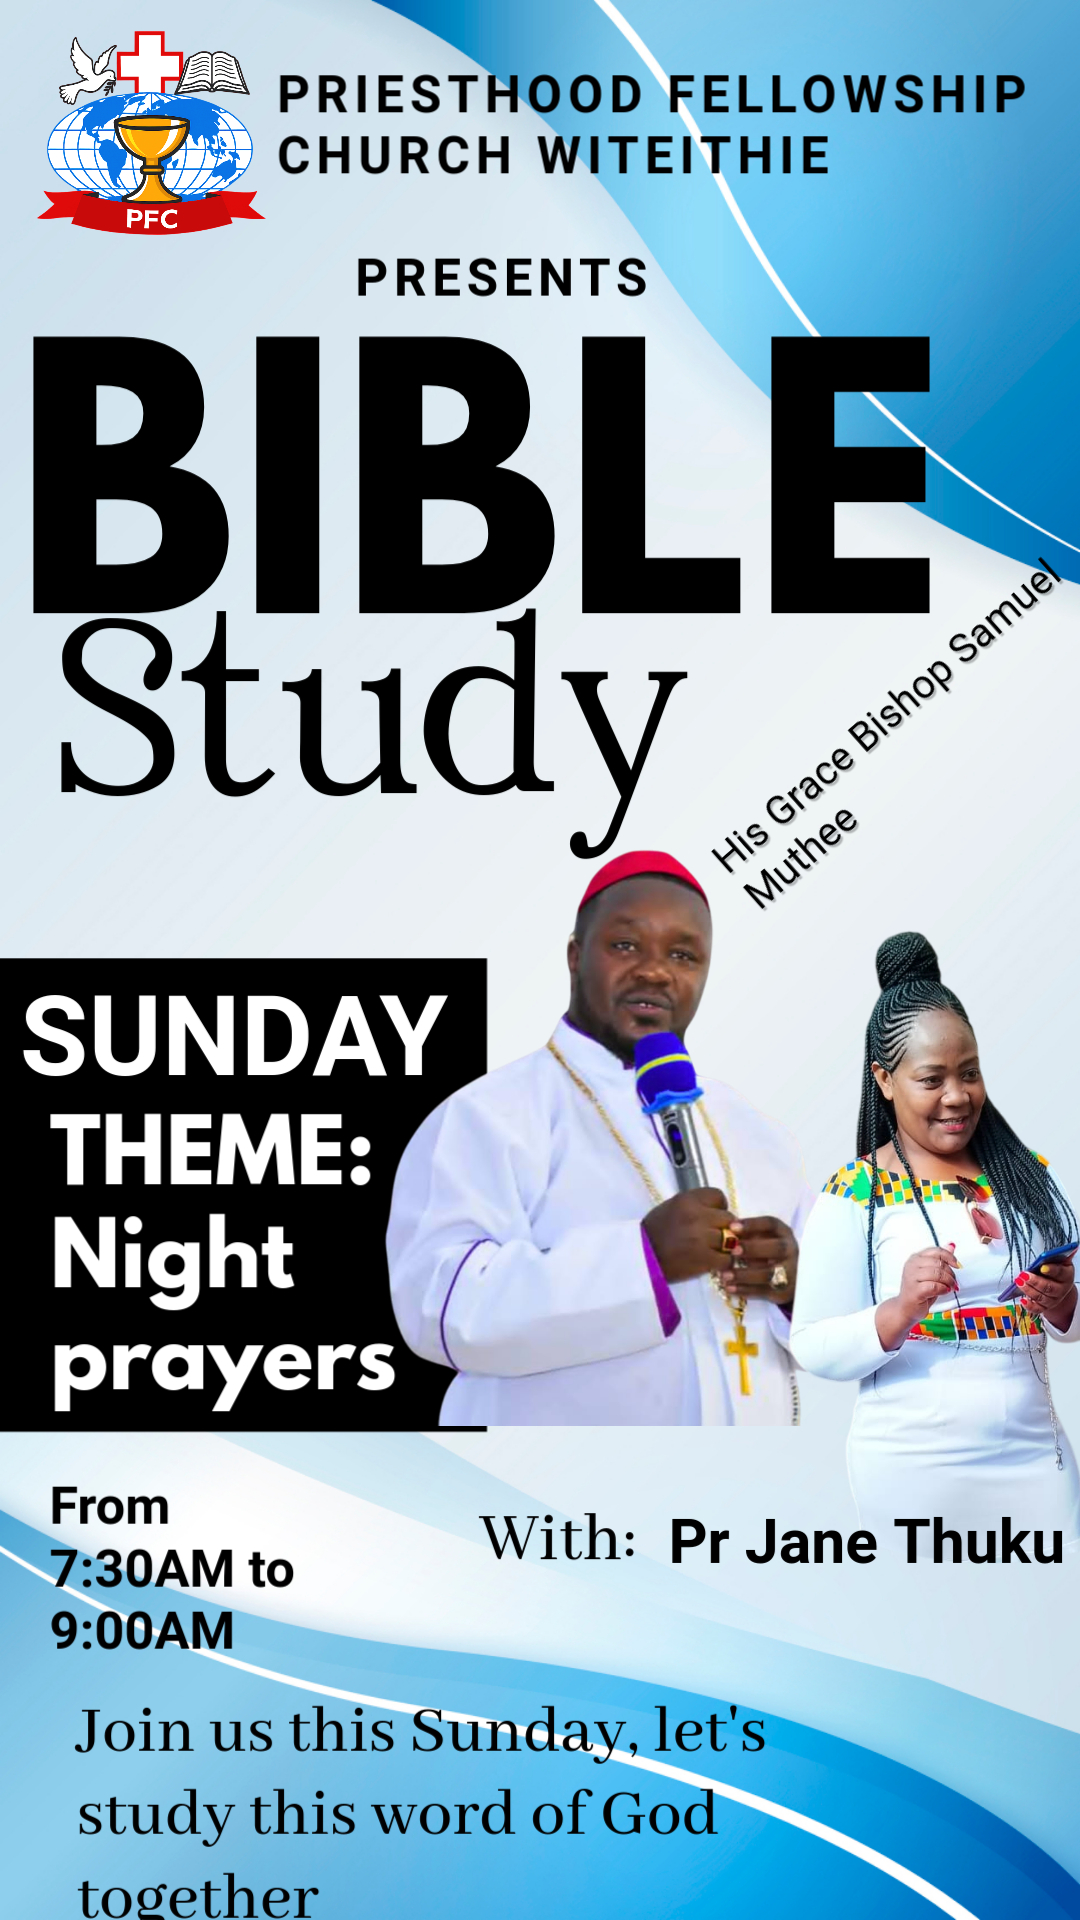
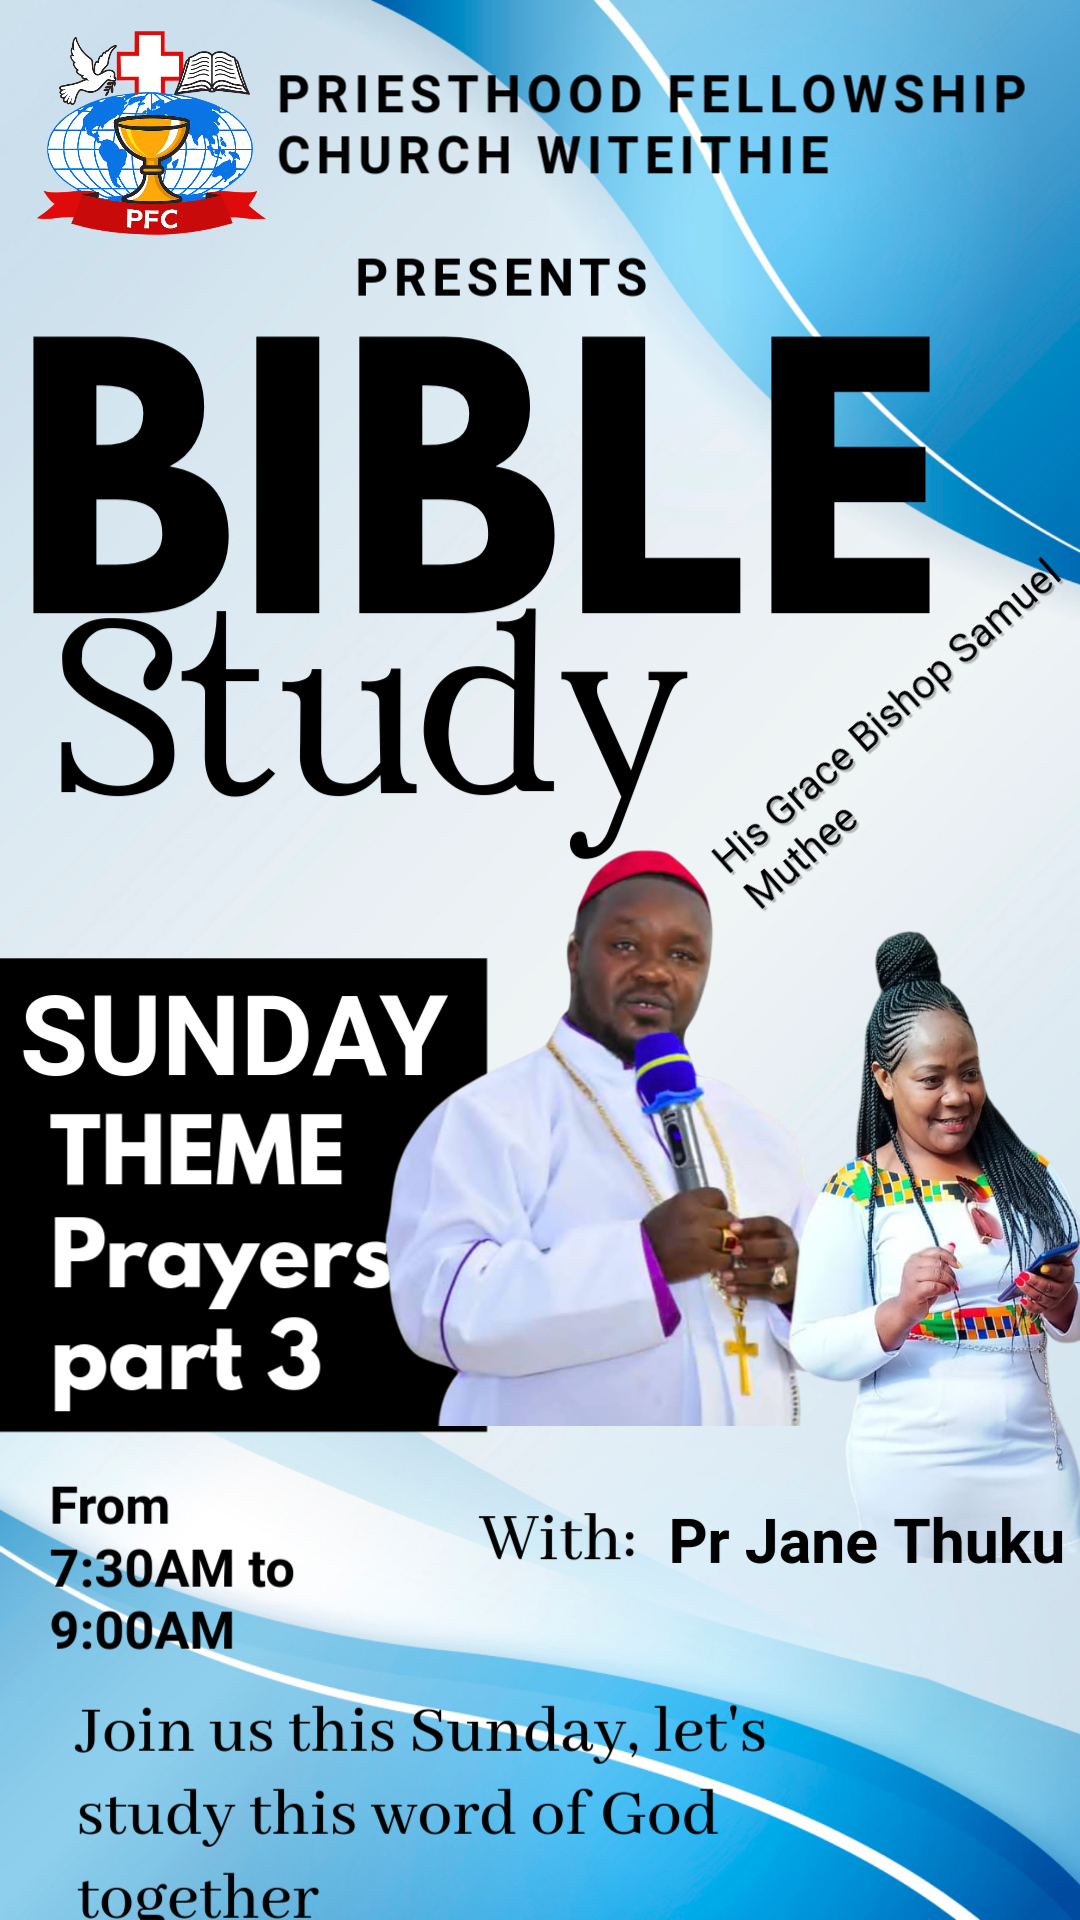
added sunday posters

Changed region(s): [[0.0611, 0.5938, 0.3667, 0.75]]

diff --git a/client/assets/assets.js b/client/assets/assets.js
@@ -1,13 +1,13 @@
 import logo from './Pristhood-logo (2)-Photoroom.png';
 import header_bg_image from './Header_bg.png';
 import worship from './WENO.jpg';
-import sunday1 from './Sunday1AUG.jpg';
+import sunday from './Sunday.jpg';
 import bible_study from './BibleStudy1.jpg';
 
 export const assets = {
     logo,
     header_bg_image,
-    sunday1,
+    sunday,
     worship,
     bible_study
 }

diff --git a/client/src/components/Updates/Updates.jsx b/client/src/components/Updates/Updates.jsx
@@ -8,6 +8,12 @@ function Updates() {
       <div className="image">
         <img src={assets.worship} alt="Bible study" />
       </div>
+      <div className="image">
+        <img src={assets.bible_study} alt="Bible study" />
+      </div>
+      <div className="image">
+        <img src={assets.sunday} alt="Bible study" />
+      </div>
     </div>
   )
 }
